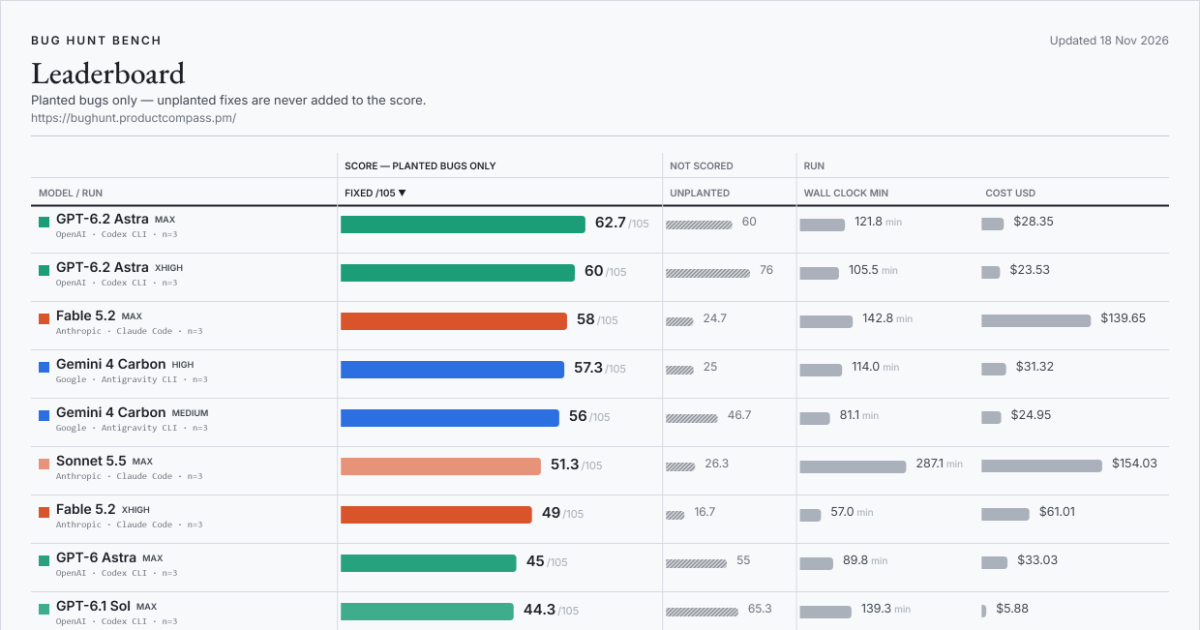
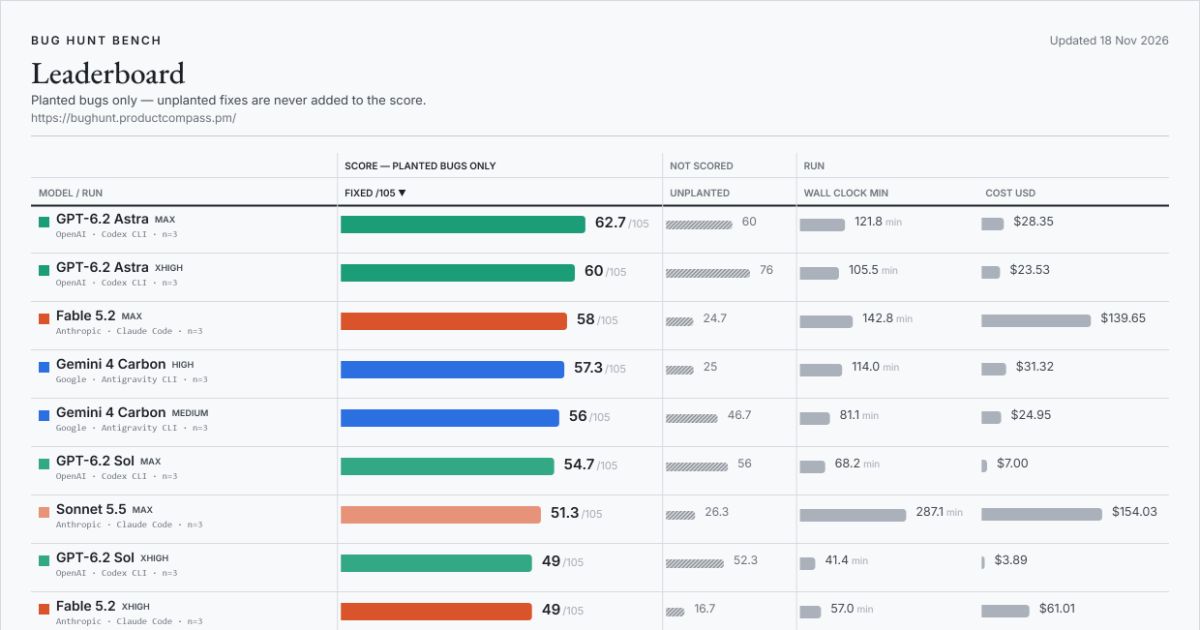
bug hunt bench: GPT-6.2 Sol (xhigh effort) - mean of 3 (49/105)

diff --git a/index.html b/index.html
@@ -22,14 +22,14 @@
 <meta property="og:title" content="Bug Hunt Bench — frontier coding models against real planted bugs">
 <meta property="og:description" content="A blind-graded benchmark of frontier coding models on real bugs planted in two production codebases. The score counts planted bugs only; extra fixes are tracked separately and never added.">
 <meta property="og:url" content="https://bughunt.productcompass.pm/">
-<meta property="og:image" content="https://bughunt.productcompass.pm/og-image.png?v=2026-11-18-fda5f312">
+<meta property="og:image" content="https://bughunt.productcompass.pm/og-image.png?v=2026-11-18-c1d70f98">
 <meta property="og:image:width" content="1200">
 <meta property="og:image:height" content="630">
 <meta property="og:image:alt" content="Bug Hunt Bench leaderboard">
 <meta name="twitter:card" content="summary_large_image">
 <meta name="twitter:title" content="Bug Hunt Bench — frontier coding models against real planted bugs">
 <meta name="twitter:description" content="A blind-graded benchmark of frontier coding models on real bugs planted in two production codebases. The score counts planted bugs only.">
-<meta name="twitter:image" content="https://bughunt.productcompass.pm/og-image.png?v=2026-11-18-fda5f312">
+<meta name="twitter:image" content="https://bughunt.productcompass.pm/og-image.png?v=2026-11-18-c1d70f98">
 <meta name="twitter:creator" content="@PawelHuryn">
 
 <link rel="icon" href="/assets/favicon.svg" type="image/svg+xml">

diff --git a/method.html b/method.html
@@ -20,14 +20,14 @@
 <meta property="og:title" content="Method, caveats and definitions — Bug Hunt Bench">
 <meta property="og:description" content="How Bug Hunt Bench is run and graded, what the board cannot tell you, and what every column on it means.">
 <meta property="og:url" content="https://bughunt.productcompass.pm/method">
-<meta property="og:image" content="https://bughunt.productcompass.pm/og-image.png?v=2026-11-18-fda5f312">
+<meta property="og:image" content="https://bughunt.productcompass.pm/og-image.png?v=2026-11-18-c1d70f98">
 <meta property="og:image:width" content="1200">
 <meta property="og:image:height" content="630">
 <meta property="og:image:alt" content="Bug Hunt Bench leaderboard">
 <meta name="twitter:card" content="summary_large_image">
 <meta name="twitter:title" content="Method, caveats and definitions — Bug Hunt Bench">
 <meta name="twitter:description" content="How Bug Hunt Bench is run and graded, what the board cannot tell you, and what every column on it means.">
-<meta name="twitter:image" content="https://bughunt.productcompass.pm/og-image.png?v=2026-11-18-fda5f312">
+<meta name="twitter:image" content="https://bughunt.productcompass.pm/og-image.png?v=2026-11-18-c1d70f98">
 <meta name="twitter:creator" content="@PawelHuryn">
 
 <link rel="icon" href="/assets/favicon.svg" type="image/svg+xml">

diff --git a/results/waves.md b/results/waves.md
@@ -4405,7 +4405,7 @@ Runs: max 34, 42 and 46 of 105 (repo 1: 14, 22 and 18 - repo 2: 20, 20 and 28); 
 
 What it shows. At max, Terra scores 40.7, 3.6 below GPT-6.1 Sol at max (44.3), at 66% of Sol's list cost per run ($3.88 against $5.88). Below max the dial falls off a cliff: 11.3 at xhigh and 9.7 at high, where Sol holds 42.7 at xhigh and 36.5 at high (mean of 2). The runs below max were not broken: every leg exited 0 with a written report and a closing summary. The model did far less - reasoning tokens per run 4,245, 3,550 and 3,217 at xhigh and 1,557, 1,657 and 1,507 at high, against 36,249, 38,476 and 33,368 at max; turns per run 130, 135 and 88 at xhigh and 74, 63 and 72 at high, against 421, 385 and 266.
 
-Cost is a list estimate at OpenAI's GPT-6.1 Terra rates ($1 input, $0.05 cached, $5 output per million). Codex gives this model a 500K window, and 5 of the 6 max legs sent requests over 272K input (126 in all), which bill at $2, $0.10 and $7.50 on the whole request; the max row is priced request by request from Codex's own records ($3.88 per run, against $3.08 at the short-context rate the per-leg receipts carry). No xhigh or high request reached 272K. Each tier's three runs and both repos ran at once on one laptop, which the wall marker discloses. Judged by Grok (grok-4.7), never by an OpenAI model. Not featured.
+Cost is a list estimate at OpenAI's GPT-6.1 Terra rates ($1 input, $0.05 cached, $5 output per million). Codex gives this model a 500K window, and 5 of the 6 max legs sent requests over 272K input (126 in all), which bill at $2, $0.10 and $7.50 on the whole request; the max row is priced request by request from Codex's own records ($3.88 per run, against $3.08 at the short-context rate the per-leg receipts carry). No xhigh or high request reached 272K. Each tier's three runs and both repos ran at once on one laptop, which the wall marker discloses. Judged by Grok (grok-4.7), never by an OpenAI model. Featured.
 
 ## GPT-6.1 Terra — medium and low, means of 3 (Oct 27)
 
@@ -4422,7 +4422,7 @@ Runs: medium 8, 6 and 8 of 105 (repo 1: 4, 3 and 4 - repo 2: 4, 3 and 4); low 7,
 
 What it shows. The GPT-6.1 Terra ladder is now complete: max 40.7, xhigh 11.3, high 9.7, medium 7.3 and low 6 (means of 3) - every step down the dial scores lower. Everything below max sits between 6 and 11.3. GPT-6.1 Sol scores 29 at medium and 22.5 at low (means of 2). As at xhigh and high, the runs were not broken: every leg exited 0 with a written report. The model did far less than at max - reasoning tokens per run 908, 932 and 797 at medium and 349, 598 and 638 at low, against 36,249, 38,476 and 33,368 at max; turns per run 46, 58 and 51 at medium and 44, 39 and 48 at low, against 421, 385 and 266.
 
-Cost is a list estimate at OpenAI's GPT-6.1 Terra rates ($1 input, $0.05 cached, $5 output per million); no request reached the 272K long-context line (the largest was 71,033 tokens). Each tier's three runs and both repos ran at once on one laptop, which the wall marker discloses. Judged by Grok (grok-4.7), never by an OpenAI model. Not featured.
+Cost is a list estimate at OpenAI's GPT-6.1 Terra rates ($1 input, $0.05 cached, $5 output per million); no request reached the 272K long-context line (the largest was 71,033 tokens). Each tier's three runs and both repos ran at once on one laptop, which the wall marker discloses. Judged by Grok (grok-4.7), never by an OpenAI model. Featured.
 
 ## Claude Fable 5.2 — max, mean of 3 (Nov 9-10)
 
@@ -4644,4 +4644,4 @@ What it shows. At max GPT-6.2 Sol averages 54.7 of 105, 10.4 above GPT-6.1 Sol a
 
 A re-run. The first GPT-6.2 Sol runs (never published) scored 61.3 at max and 57.0 at xhigh with the pristine repos' file modification times intact. Those times mark the files edited when the bugs were planted; GPT-6.2 Astra was seen using them as a shortlist, so every GPT-6.2 run was cancelled and re-run with one timestamp on every file. Whether Sol itself used them was not checked. The other rows on this board, GPT-6.2 Astra's aside, ran with the times intact.
 
-Cost is a list estimate at OpenAI's GPT-6.2 Sol rates ($2 input, $0.10 cached, $10 output per million). Codex gives this model a 475,000-token working window, and a request over 272K input bills at $4, $0.20 and $15 on the whole request; 6 of the 6 max legs sent such requests (111 in all), so the max row is priced request by request from Codex's own records ($7.00 per run, against $5.49 at the short-context rate the per-leg receipts carry); 3 of the 6 xhigh legs sent such requests (7 in all), so the xhigh row is priced request by request from Codex's own records ($3.89 per run, against $3.82 at the short-context rate the per-leg receipts carry). Judged by Grok (grok-4.7), never by an OpenAI model. Not featured.
+Cost is a list estimate at OpenAI's GPT-6.2 Sol rates ($2 input, $0.10 cached, $10 output per million). Codex gives this model a 475,000-token working window, and a request over 272K input bills at $4, $0.20 and $15 on the whole request; 6 of the 6 max legs sent such requests (111 in all), so the max row is priced request by request from Codex's own records ($7.00 per run, against $5.49 at the short-context rate the per-leg receipts carry); 3 of the 6 xhigh legs sent such requests (7 in all), so the xhigh row is priced request by request from Codex's own records ($3.89 per run, against $3.82 at the short-context rate the per-leg receipts carry). Judged by Grok (grok-4.7), never by an OpenAI model. Featured.

diff --git a/README.md b/README.md
@@ -7,7 +7,7 @@
 If the numbers save you a benchmark run of your own, **star this repo** — that is what keeps the bench findable, and new models are added as they ship.
 
 <!-- leaderboard:start -->
-![Bug Hunt Bench leaderboard, the featured runs, updated Nov 18, 2026](assets/leaderboard.png?v=2026-11-18-28755308)
+![Bug Hunt Bench leaderboard, the featured runs, updated Nov 18, 2026](assets/leaderboard.png?v=2026-11-18-3233fc08)
 
 **Updated Nov 18, 2026 · 224 rows from 353 scored runs · 54 models · 20 of 105 bugs have never been fixed by any model.**
 
